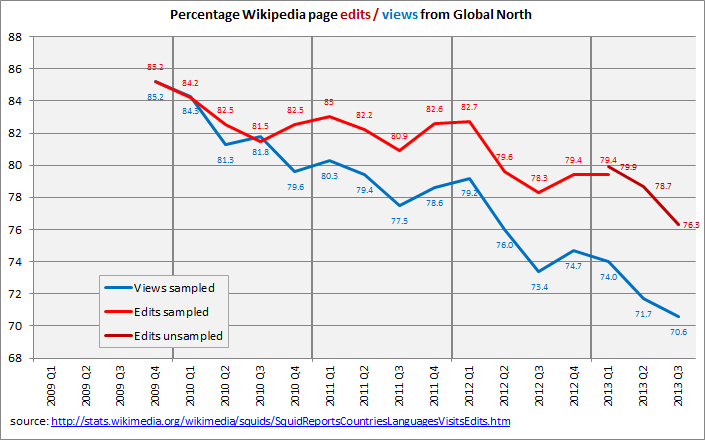
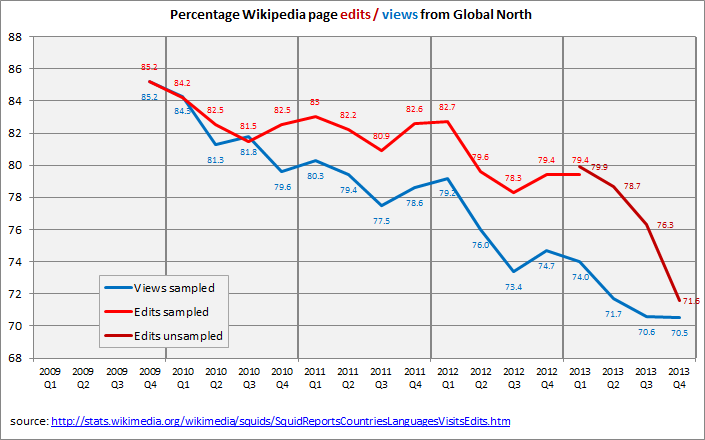
updated binaries and html index file

Changed region(s): [[0.1872, 0.0886, 0.9986, 0.7682], [0.0624, 0.7977, 0.9986, 0.9159], [0.7177, 0.65, 0.7801, 0.6795]]

diff --git a/squids-old/reports/SquidReportsCountriesLanguagesVisitsEdits.htm b/squids-old/reports/SquidReportsCountriesLanguagesVisitsEdits.htm
@@ -33,6 +33,7 @@ See also <a href='index.html'>Monthly regular traffic reports</a> (non geographi
 <a href='PercentagesEditsViewsNorthSouth.png'>Chart: percentage Wikipedia edits/views from Global North</a>		
 <h2>Wikimedia Traffic Analysis Report - Page Views</h2>
 <ul>
+  <li><a href='SquidReportPageViewsPerCountryOverview2013Q4.htm'>Page views per country - Overview 2013 Q4</a>
   <li><a href='SquidReportPageViewsPerCountryOverview2013Q3.htm'>Page views per country - Overview 2013 Q3</a>
   <li><a href='SquidReportPageViewsPerCountryOverview2013Q2.htm'>Page views per country - Overview 2013 Q2</a>
   <li><a href='SquidReportPageViewsPerCountryOverview2013Q1.htm'>Page views per country - Overview 2013 Q1</a>
@@ -57,6 +58,7 @@ See also <a href='index.html'>Monthly regular traffic reports</a> (non geographi
 </ul>
 <h2>Wikimedia Traffic Analysis Report - Page Edits</h2>
 <ul>
+  <li><a href='SquidReportPageEditsPerCountryOverview2013Q4.htm'>Page edits per country - Overview 2013 Q4</a>
   <li><a href='SquidReportPageEditsPerCountryOverview2013Q3.htm'>Page edits per country - Overview 2013 Q3</a>
   <li><a href='SquidReportPageEditsPerCountryOverview2013Q2.htm'>Page edits per country - Overview 2013 Q2</a>
   <li><a href='SquidReportPageEditsPerCountryOverview2013Q1.htm'>Page edits per country - Overview 2013 Q1</a>
